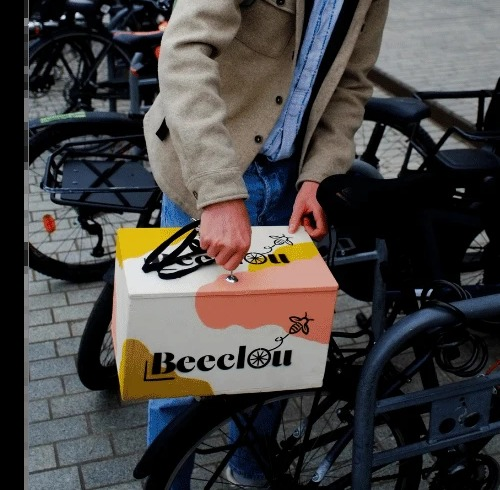
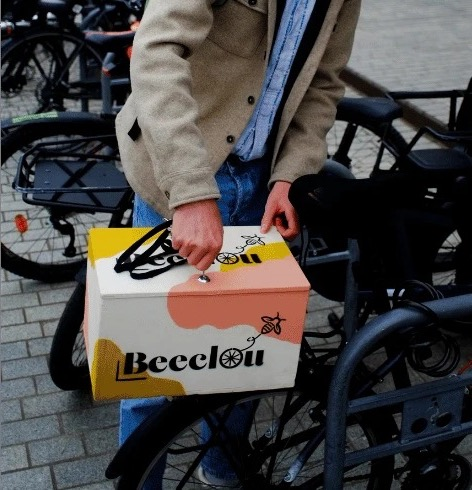
Hero : recadre la photo (retire la bande noire à gauche)

diff --git a/index.html b/index.html
@@ -1199,7 +1199,7 @@ html.fx .hero-home .hero-sub{animation-duration:.6s;animation-delay:.3s}
     <div class="orb orb-1"></div>
     <div class="orb orb-2"></div>
     <div class="orb orb-3"></div>
-    <img src="assets/images/13-cycliste-ouvre-le-top-case-beeclou.jpg" loading="eager" fetchpriority="high" decoding="async" alt="Cycliste ouvrant son top case Beeclou dans la rue" class="hero-photo-float" loading="lazy" width="320" height="320" onerror="this.style.display='none'">
+    <img src="assets/images/13-cycliste-ouvre-le-top-case-beeclou.jpg?v=2" loading="eager" fetchpriority="high" decoding="async" alt="Cycliste ouvrant son top case Beeclou dans la rue" class="hero-photo-float" loading="lazy" width="320" height="320" onerror="this.style.display='none'">
         <span class="hero-badge">Simple. Utile. Visible. Le top case qui finance vos trajets</span>
         <h1 class="hero-title" style="font-size:clamp(60px,14vw,100px);margin-bottom:32px;margin-top:20px;line-height:1.0">
       <span class="line">Vos trajets</span>
